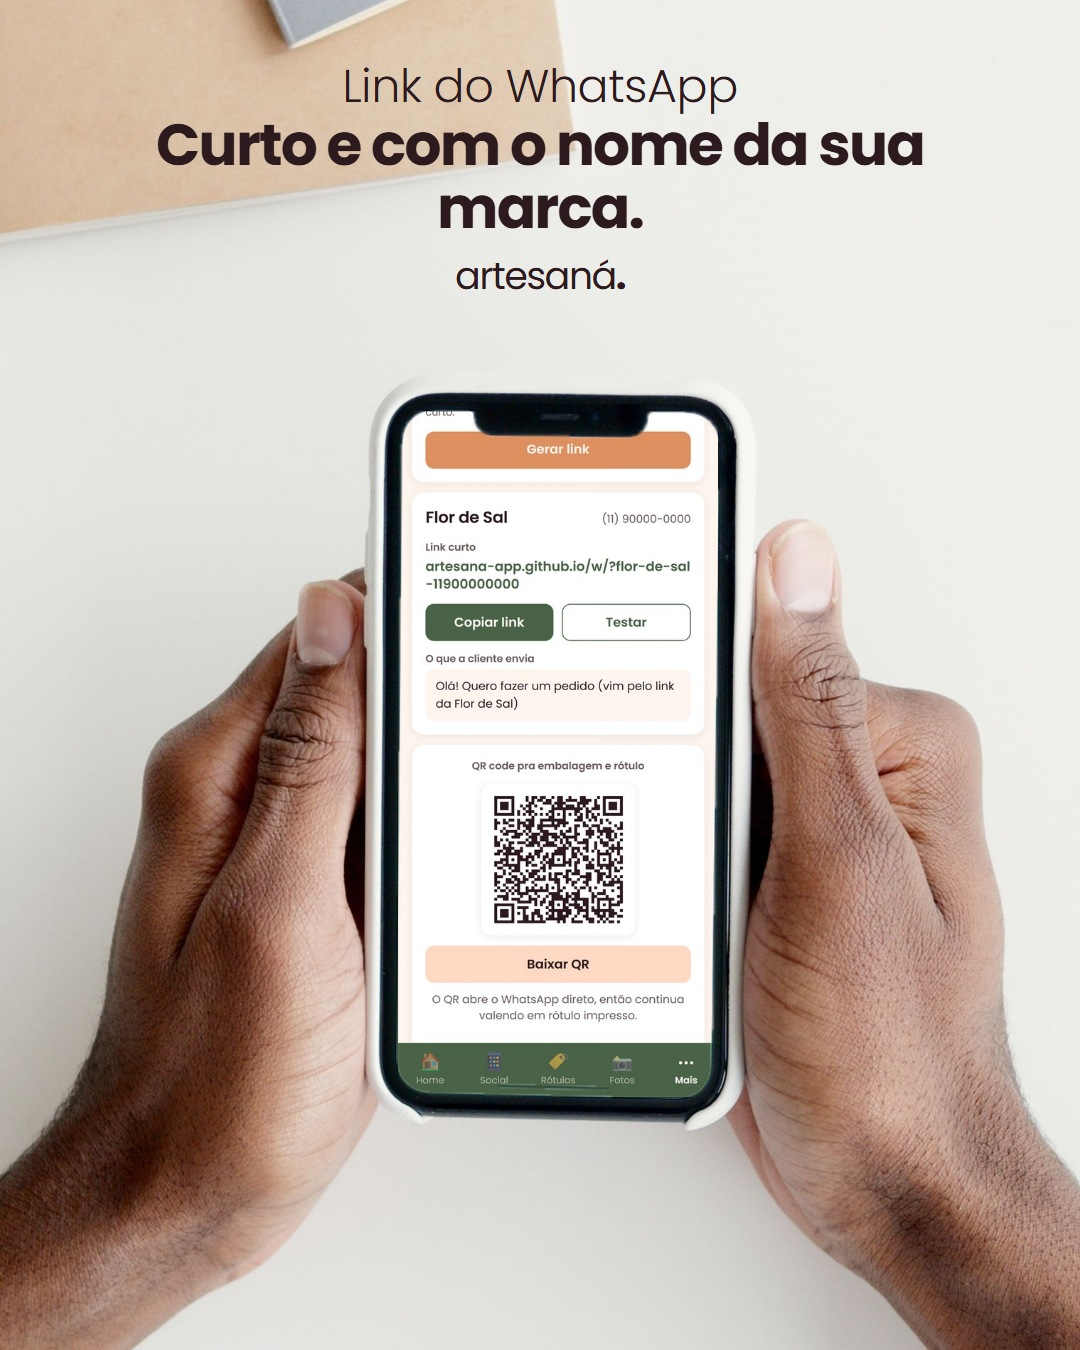
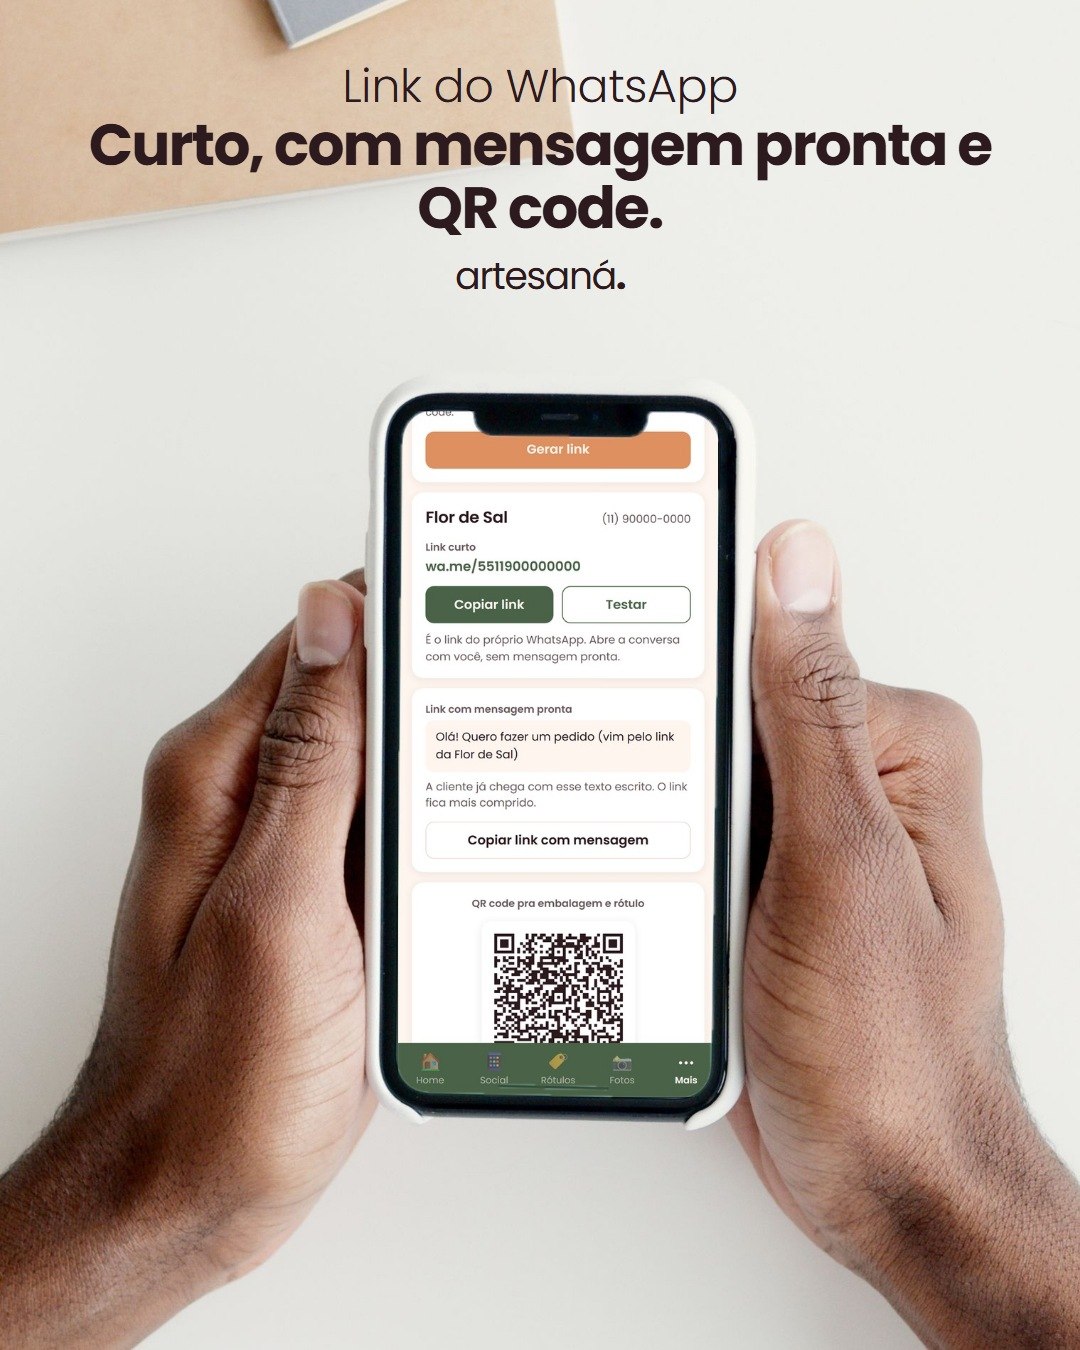
feat(whatsapp): link curto passa a ser o wa.me do próprio WhatsApp
- link curto = wa.me/55 + número, sem mensagem, pra bio
- link com mensagem pronta e link com o nome da marca viram opções secundárias
- peça do carrossel e textos do anúncio ajustados
- versão 1.3.1

Changed region(s): [[0.3972, 0.4044, 0.6417, 0.7778], [0.0611, 0.0933, 0.9167, 0.1867]]

diff --git a/app/js/modules/whatsapp.js b/app/js/modules/whatsapp.js
@@ -1,6 +1,6 @@
 import { h, header, toast, copiar } from '../ui.js';
 import * as store from '../store.js';
-import { validar, numeroFormatado, montarLinkCurto, lerLinkCurto, destinoLinkCurto, SUGESTOES_MENSAGEM } from '../lib/whatsapp.js';
+import { validar, numeroFormatado, versoesDoLink, SUGESTOES_MENSAGEM } from '../lib/whatsapp.js';
 import { baseLinkCurto, semProtocolo } from '../site.js';
 
 // QR em data URL (PNG) usando qrcode-generator (window.qrcode). px = lado em pixels.
@@ -46,12 +46,10 @@ export function montar(section) {
     }
     erro.classList.add('hidden');
     const dados = { ddd: v.ddd, numero: v.numero, mensagem: msg.value.trim() };
-    const linkCurto = montarLinkCurto({ base: baseLinkCurto(), marca, ...dados });
-    const lido = lerLinkCurto(new URL(linkCurto).search);
-    const link = destinoLinkCurto(lido); // para onde o link curto leva: wa.me com a mensagem identificada
-    const enviada = decodeURIComponent((link.split('?text=')[1] || ''));
-    store.set('whatsapp', { ...dados, link, linkCurto });
-    const qrUrl = gerarQrDataUrl(link);
+    const links = versoesDoLink({ base: baseLinkCurto(), marca, ...dados });
+    // link: o que vai no QR e nos rótulos. linkCurto: o que aparece e se copia pra bio.
+    store.set('whatsapp', { ...dados, link: links.comMensagem || links.curto, linkCurto: links.curto, linkMarca: links.comMarca });
+    const qrUrl = gerarQrDataUrl(links.comMensagem || links.curto);
 
     resultado.innerHTML = '';
     resultado.append(
@@ -59,38 +57,44 @@ export function montar(section) {
         h('div', { class: 'wa-id-topo' },
           h('span', { class: 'wa-id-marca' }, marca || 'Sua marca'),
           h('span', { class: 'muted' }, numeroFormatado(dados))),
-        marca ? null : h('p', { class: 'muted' }, 'Seu link ainda está sem nome. ', h('a', { href: '#perfil' }, 'Informe a marca no perfil'), ' pra ele sair identificado.'),
         h('div', { class: 'wa-rotulo' }, 'Link curto'),
-        h('div', { class: 'wa-link' }, semProtocolo(linkCurto)),
+        h('div', { class: 'wa-link' }, semProtocolo(links.curto)),
         h('div', { class: 'btn-row' },
-          h('button', { class: 'btn', onClick: () => copiar(linkCurto, 'Link copiado! Cole na bio.') }, 'Copiar link'),
-          h('a', { class: 'btn ghost', href: linkCurto, target: '_blank', rel: 'noopener' }, 'Testar')),
-        enviada ? h('div', {}, h('div', { class: 'wa-rotulo' }, 'O que a cliente envia'), h('p', { class: 'wa-msg' }, enviada)) : null,
+          h('button', { class: 'btn', onClick: () => copiar(links.curto, 'Link copiado! Cole na bio.') }, 'Copiar link'),
+          h('a', { class: 'btn ghost', href: links.curto, target: '_blank', rel: 'noopener' }, 'Testar')),
+        h('p', { class: 'muted', style: { margin: '10px 0 0' } }, 'É o link do próprio WhatsApp. Abre a conversa com você, sem mensagem pronta.'),
       ),
+      links.comMensagem ? h('div', { class: 'card wa-mensagem' },
+        h('div', { class: 'wa-rotulo', style: { marginTop: 0 } }, 'Link com mensagem pronta'),
+        h('p', { class: 'wa-msg' }, links.mensagemEnviada),
+        h('p', { class: 'muted', style: { margin: '8px 0 0' } }, 'A cliente já chega com esse texto escrito. O link fica mais comprido.'),
+        h('div', { class: 'btn-row' },
+          h('button', { class: 'btn white', onClick: () => copiar(links.comMensagem, 'Link com mensagem copiado') }, 'Copiar link com mensagem'))) : null,
       h('div', { class: 'card wa-result' },
         h('div', { class: 'wa-rotulo' }, 'QR code pra embalagem e rótulo'),
         qrUrl ? h('img', { src: qrUrl, alt: `QR code do WhatsApp de ${marca || 'sua marca'}` }) : h('p', { class: 'muted' }, 'QR indisponível'),
         qrUrl ? h('a', { class: 'btn soft block', href: qrUrl, download: 'qr-whatsapp.png' }, 'Baixar QR') : null,
-        h('p', { class: 'muted', style: { marginTop: '10px' } }, 'O QR abre o WhatsApp direto, então continua valendo em rótulo impresso.'),
+        h('p', { class: 'muted', style: { marginTop: '10px' } }, links.comMensagem ? 'O QR abre a conversa já com a mensagem pronta.' : 'O QR abre a conversa com você.'),
         h('details', { class: 'wa-direto' },
-          h('summary', {}, 'Ver o link direto do WhatsApp'),
-          h('p', { class: 'wa-msg' }, semProtocolo(link)),
-          h('button', { class: 'btn white sm', onClick: () => copiar(link, 'Link direto copiado') }, 'Copiar link direto')),
+          h('summary', {}, 'Ver o link com o nome da marca'),
+          h('p', { class: 'wa-msg' }, semProtocolo(links.comMarca)),
+          h('p', { class: 'muted', style: { margin: '0 0 10px' } }, 'Passa por uma página do artesaná. antes de abrir o WhatsApp.'),
+          h('button', { class: 'btn white sm', onClick: () => copiar(links.comMarca, 'Link copiado') }, 'Copiar')),
       ),
     );
     resultado.classList.remove('hidden');
     if (!silencioso) toast('Link gerado e salvo');
-    return linkCurto;
+    return links.curto;
   };
 
   section.append(h('div', { class: 'screen' },
-    header({ titulo: 'Link do WhatsApp', sub: 'Curto e com o nome da sua marca', voltar: '#mais' }),
+    header({ titulo: 'Link do WhatsApp', sub: 'Curto, pra bio e pra embalagem', voltar: '#mais' }),
     h('div', { class: 'content' },
       h('div', { class: 'card' },
         h('div', { class: 'field' }, h('label', {}, 'Seu número'),
           h('div', { class: 'inline' }, h('span', { class: 'prefix' }, '+55'), ddd, numero), erro),
         h('div', { class: 'field' }, h('label', {}, 'Mensagem automática'), msg, chips,
-          h('div', { class: 'hint' }, 'Com uma das mensagens prontas o link fica mais curto.')),
+          h('div', { class: 'hint' }, 'Opcional. Vale pro link com mensagem e pro QR code.')),
         h('button', { class: 'btn peach block', onClick: () => gerar() }, 'Gerar link'),
       ),
       resultado,

diff --git a/marketing/instagram/index.html b/marketing/instagram/index.html
@@ -74,7 +74,7 @@
         </figure>
         <figure>
           <figcaption>Página 3</figcaption>
-          <img src="./carrossel-3.jpg" alt="Mãos seguram um celular com a tela do link do WhatsApp no app artesaná., com QR code. Texto: Link do WhatsApp. Curto e com o nome da sua marca." loading="lazy">
+          <img src="./carrossel-3.jpg" alt="Mãos seguram um celular com a tela do link do WhatsApp no app artesaná., com QR code. Texto: Link do WhatsApp. Curto, com mensagem pronta e QR code." loading="lazy">
           <div class="acoes"><a class="botao" href="./carrossel-3.jpg" download="artesana-carrossel-3.jpg">Baixar</a></div>
         </figure>
         <figure>
@@ -93,7 +93,7 @@
 
 Rótulo e etiqueta em PDF, no formato redondo, retangular ou tag de presente, com a folha A4 já montada. Tem também o rótulo completo, com os dados que a Anvisa exige.
 
-Link do WhatsApp curto, com o nome da sua marca, mensagem pronta e QR code pra embalagem.
+Link do WhatsApp curto, com mensagem pronta e QR code pra embalagem.
 
 Lista de ingredientes no padrão INCI, com a composição em português.
 
@@ -109,7 +109,7 @@ Está em versão beta e é grátis pra começar. O link está na bio.
         <summary>Texto alternativo das imagens</summary>
         <pre class="caixa" id="alt-4-0">Mulher de cabelos grisalhos sorri olhando o celular, sentada num sofá verde. Texto: Conheça o app por dentro. Tudo pra sua marca, no celular.</pre>
         <pre class="caixa" id="alt-4-1">Pote azul com etiqueta em branco sobre uma superfície clara. Texto: Rótulo e etiqueta. Em PDF, com os dados que a Anvisa exige.</pre>
-        <pre class="caixa" id="alt-4-2">Mãos seguram um celular com a tela do link do WhatsApp no app artesaná., com QR code. Texto: Link do WhatsApp. Curto e com o nome da sua marca.</pre>
+        <pre class="caixa" id="alt-4-2">Mãos seguram um celular com a tela do link do WhatsApp no app artesaná., com QR code. Texto: Link do WhatsApp. Curto, com mensagem pronta e QR code.</pre>
         <pre class="caixa" id="alt-4-3">Dois sabonetes artesanais empilhados sobre linho, com ramos de flores secas. Texto: Identidade e guias. A cara da marca e como divulgar.</pre>
         <pre class="caixa" id="alt-4-4">Mulher de cabelos brancos e camisa branca sorri segurando um conta-gotas e um frasco. Texto: Instala no celular e funciona sem internet. Comece grátis. Link na bio.</pre>
       </details>
@@ -161,7 +161,7 @@ Grátis na versão beta. O link está na bio.
       </div>
       <h3>Textos do anúncio</h3>
       <div class="campos">
-        <div><b>Texto principal</b><pre class="caixa" id="txt-6-0">Você produz, vende e divulga sozinha? O artesaná. monta o rótulo do seu produto, cria o link do WhatsApp com o nome da sua marca e organiza a identidade dela, tudo pelo celular. Está em versão beta e é grátis pra começar.</pre>
+        <div><b>Texto principal</b><pre class="caixa" id="txt-6-0">Você produz, vende e divulga sozinha? O artesaná. monta o rótulo do seu produto, cria o link curto do WhatsApp e organiza a identidade dela, tudo pelo celular. Está em versão beta e é grátis pra começar.</pre>
           <div class="acoes"><button class="botao claro" type="button" data-copiar="txt-6-0">Copiar</button></div></div>
         <div><b>Título</b><pre class="caixa" id="txt-6-1">Rótulo, link e marca no celular</pre>
           <div class="acoes"><button class="botao claro" type="button" data-copiar="txt-6-1">Copiar</button></div></div>

diff --git a/app/js/lib/whatsapp.js b/app/js/lib/whatsapp.js
@@ -77,3 +77,16 @@ export function destinoLinkCurto(dados) {
   if (dados.marca) mensagem = corpo ? `${corpo} (vim pelo link da ${dados.marca})` : `Olá! Vim pelo link da ${dados.marca}.`;
   return montarLink({ ddd: dados.ddd, numero: dados.numero, mensagem });
 }
+
+// As versões do link de uma marca.
+// curto: o link do próprio WhatsApp, só com o número. É o que vai na bio.
+// comMensagem: o mesmo link com a mensagem pronta, identificando a marca. Vazio se não houver o que escrever.
+// comMarca: passa pela página /w/ do artesaná., que mostra o nome da marca e abre o WhatsApp.
+export function versoesDoLink({ base, marca, ddd, numero, mensagem = '' } = {}) {
+  const curto = montarLink({ ddd, numero });
+  const comMarca = montarLinkCurto({ base, marca, ddd, numero, mensagem });
+  const destino = destinoLinkCurto(lerLinkCurto(comMarca.slice(comMarca.indexOf('?')))) || curto;
+  const comMensagem = destino === curto ? '' : destino;
+  const mensagemEnviada = comMensagem ? decodeURIComponent(comMensagem.split('?text=')[1] || '') : '';
+  return { curto, comMensagem, comMarca, mensagemEnviada };
+}

diff --git a/app/js/site.js b/app/js/site.js
@@ -2,7 +2,7 @@
 export const SITE = {
   dominio: 'artesana-mktdigital.com.br',
   instagram: 'artesana.app',
-  versao: '1.3.0',
+  versao: '1.3.1',
   // Teste beta: tudo liberado, sem trava de plano. Troque pra false quando os planos entrarem em vigor.
   beta: true,
   // WhatsApp da equipe artesaná. que recebe os perfis enviados, no formato { ddd: '51', numero: '999999999' }.

diff --git a/marketing/instagram/modelos/carrossel-3.html b/marketing/instagram/modelos/carrossel-3.html
@@ -13,7 +13,7 @@
   <img class="foto" src="../fotos/6786892-app.jpg" alt="">
   <div class="frase escura">
     <span class="leve">Link do WhatsApp</span>
-    <span class="forte">Curto e com o nome da sua marca.</span>
+    <span class="forte">Curto, com mensagem pronta e QR code.</span>
     <span class="marca">artesaná<b>.</b></span>
   </div>
 </div>

diff --git a/app/js/app.js b/app/js/app.js
@@ -16,7 +16,7 @@ import * as meta from './modules/meta.js';
 import * as tutorial from './modules/tutorial.js';
 import * as detalhe from './modules/detalhe.js';
 
-export const VERSAO = '1.3.0';
+export const VERSAO = '1.3.1';
 
 router.iniciar({
   login: login.montar,

diff --git a/app/sw.js b/app/sw.js
@@ -1,5 +1,5 @@
 // Service worker do artesaná. — bump CACHE a cada deploy.
-const CACHE = 'artesana-v1.3.0';
+const CACHE = 'artesana-v1.3.1';
 const FONTES = 'artesana-fonts';
 
 const PRECACHE = [

diff --git a/scripts/gen-site-shots.py b/scripts/gen-site-shots.py
@@ -90,7 +90,6 @@ def main() -> None:
         page.wait_for_timeout(600)
         page.evaluate("""() => {
           const sec = document.querySelector('section[data-route=whatsapp]');
-          sec.querySelector('.wa-link').textContent = 'artesana-app.github.io/w/?flor-de-sal-11900000000';
           window.scrollTo(0, sec.querySelector('.wa-id').getBoundingClientRect().top + scrollY - 96);
         }""")
         page.wait_for_timeout(300)

diff --git a/marketing/instagram/legendas.md b/marketing/instagram/legendas.md
@@ -14,7 +14,7 @@ O artesaná. por dentro, em cinco telas.
 
 Rótulo e etiqueta em PDF, no formato redondo, retangular ou tag de presente, com a folha A4 já montada. Tem também o rótulo completo, com os dados que a Anvisa exige.
 
-Link do WhatsApp curto, com o nome da sua marca, mensagem pronta e QR code pra embalagem.
+Link do WhatsApp curto, com mensagem pronta e QR code pra embalagem.
 
 Lista de ingredientes no padrão INCI, com a composição em português.
 
@@ -30,7 +30,7 @@ Está em versão beta e é grátis pra começar. O link está na bio.
 
 - `carrossel-1.jpg`: Mulher de cabelos grisalhos sorri olhando o celular, sentada num sofá verde. Texto: Conheça o app por dentro. Tudo pra sua marca, no celular.
 - `carrossel-2.jpg`: Pote azul com etiqueta em branco sobre uma superfície clara. Texto: Rótulo e etiqueta. Em PDF, com os dados que a Anvisa exige.
-- `carrossel-3.jpg`: Mãos seguram um celular com a tela do link do WhatsApp no app artesaná., com QR code. Texto: Link do WhatsApp. Curto e com o nome da sua marca.
+- `carrossel-3.jpg`: Mãos seguram um celular com a tela do link do WhatsApp no app artesaná., com QR code. Texto: Link do WhatsApp. Curto, com mensagem pronta e QR code.
 - `carrossel-4.jpg`: Dois sabonetes artesanais empilhados sobre linho, com ramos de flores secas. Texto: Identidade e guias. A cara da marca e como divulgar.
 - `carrossel-5.jpg`: Mulher de cabelos brancos e camisa branca sorri segurando um conta-gotas e um frasco. Texto: Instala no celular e funciona sem internet. Comece grátis. Link na bio.
 
@@ -70,7 +70,7 @@ Use a imagem 4:5 no feed e a 9:16 em Stories e Reels. No Gerenciador de Anúncio
 
 Imagens: `anuncio.jpg`, `anuncio-stories.jpg`
 
-**Texto principal:** Você produz, vende e divulga sozinha? O artesaná. monta o rótulo do seu produto, cria o link do WhatsApp com o nome da sua marca e organiza a identidade dela, tudo pelo celular. Está em versão beta e é grátis pra começar.
+**Texto principal:** Você produz, vende e divulga sozinha? O artesaná. monta o rótulo do seu produto, cria o link curto do WhatsApp e organiza a identidade dela, tudo pelo celular. Está em versão beta e é grátis pra começar.
 
 **Título:** Rótulo, link e marca no celular
 
